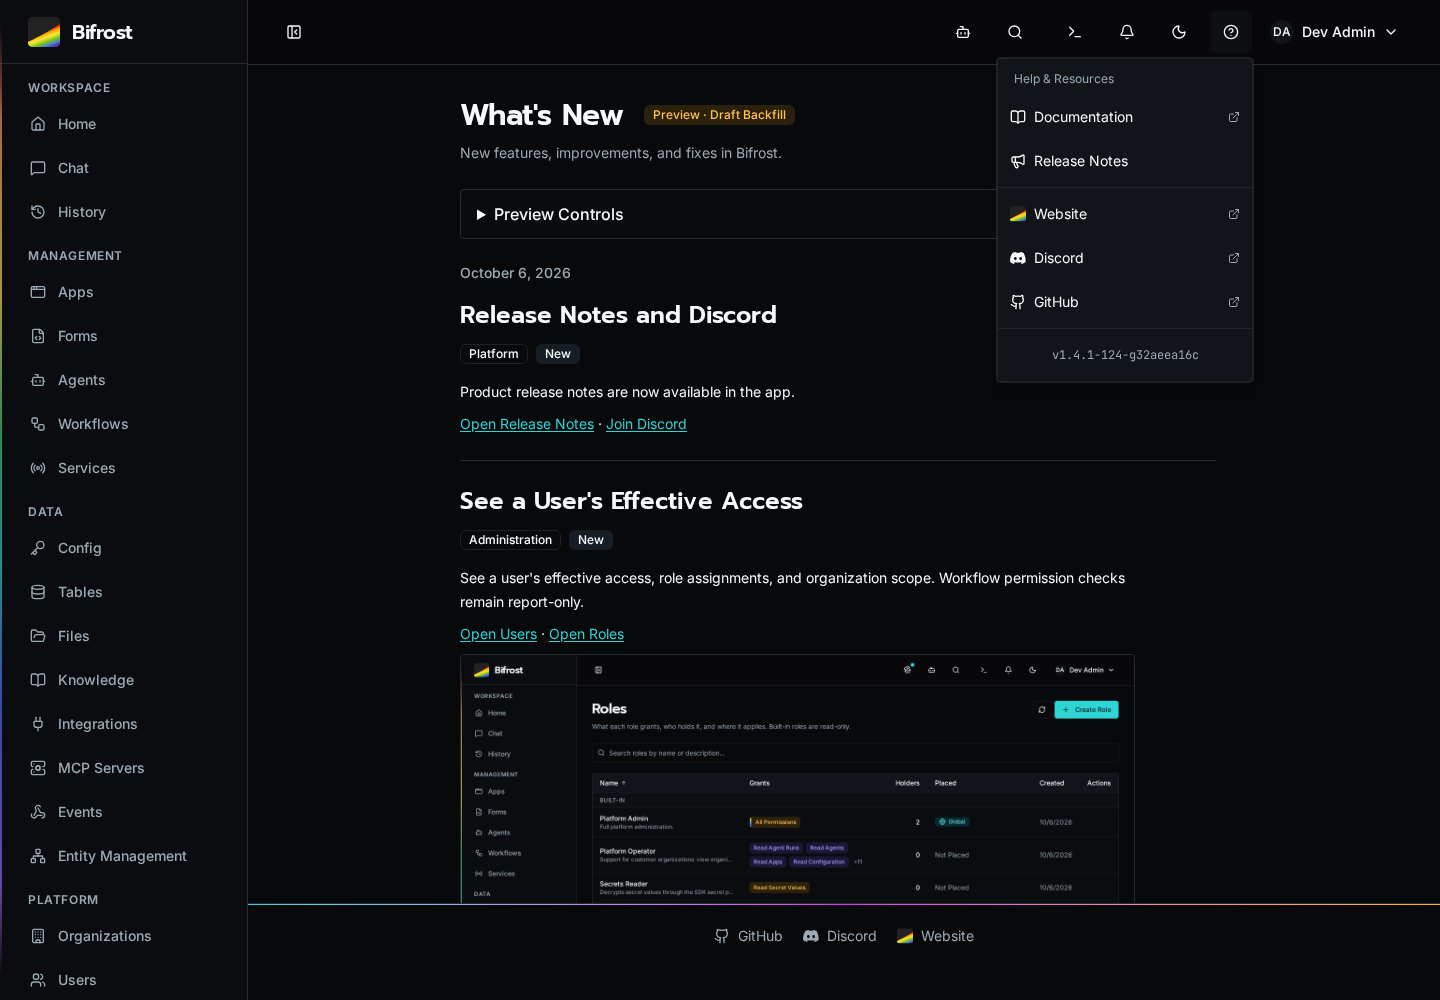
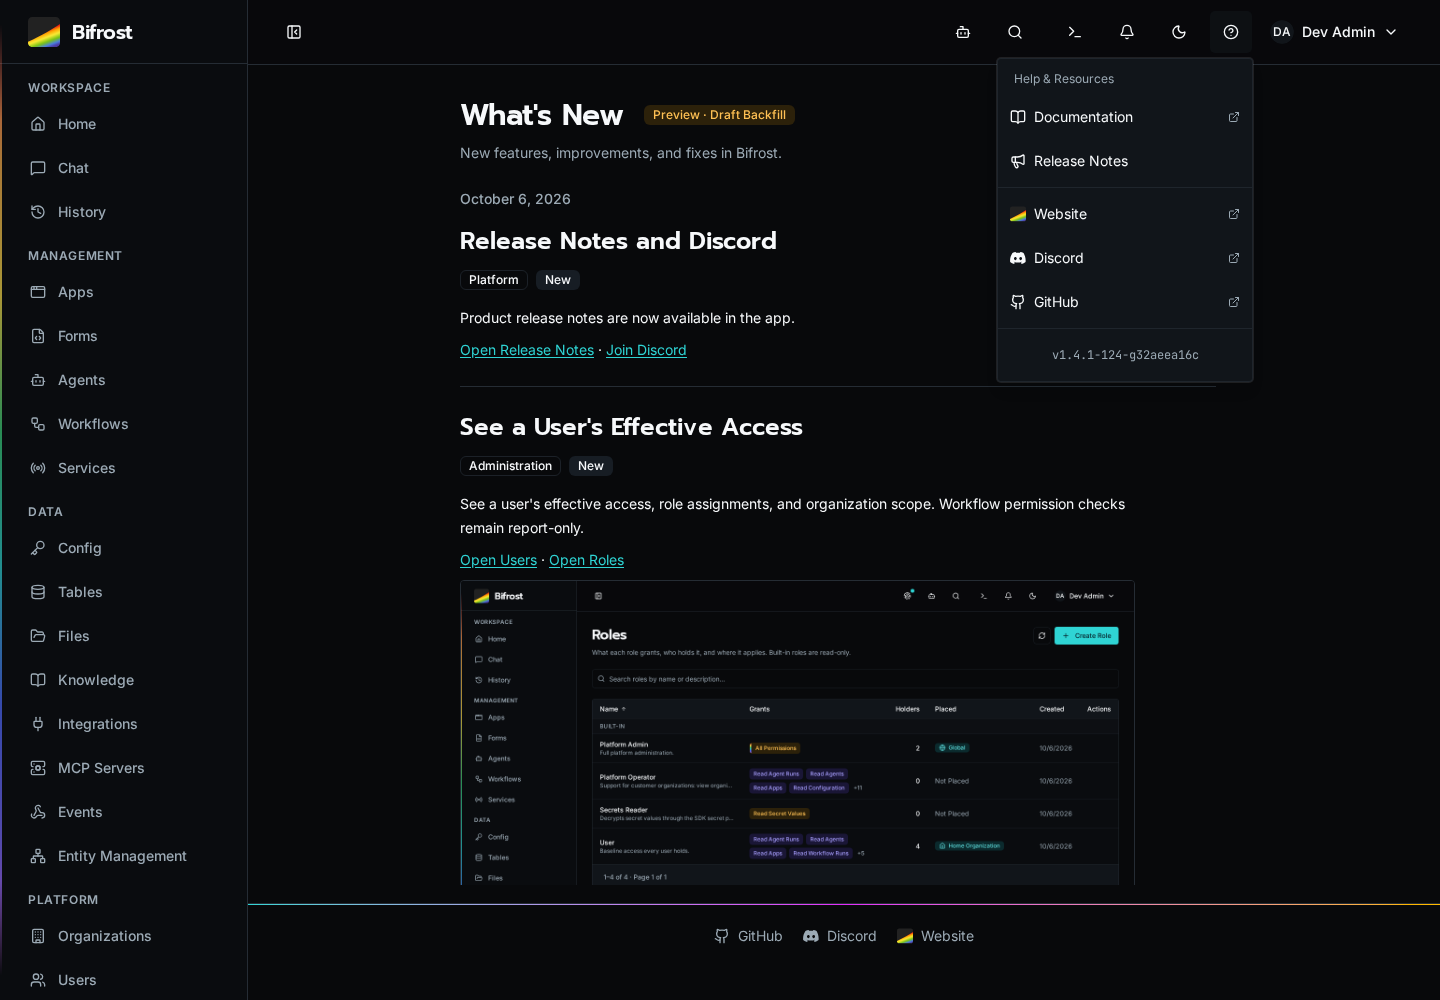
Hide development controls from the release notes review page

diff --git a/client/src/pages/ProductUpdatesPreview.tsx b/client/src/pages/ProductUpdatesPreview.tsx
@@ -40,6 +40,7 @@ export function ProductUpdatesPreview({
 }) {
 	const [searchParams, setSearchParams] = useSearchParams();
 	const { user } = useAuth();
+	const showControls = searchParams.get("controls") === "1";
 	const state = readPreviewState(searchParams.get("state"));
 	const selectedAdmin = searchParams.get("admin") ?? "current";
 	const adminId =
@@ -149,76 +150,88 @@ export function ProductUpdatesPreview({
 					description="New features, improvements, and fixes in Bifrost."
 				/>
 
-				<details className="rounded-[var(--bf-radius-surface)] border bg-muted/20 px-4 py-3">
-					<summary className="cursor-pointer font-medium">
-						Preview Controls
-					</summary>
-					<div className="mt-3">
-						<Alert>
-							<Megaphone aria-hidden="true" />
-							<AlertTitle>Development Fixture</AlertTitle>
-							<AlertDescription className="flex flex-wrap items-center gap-3">
-								<label className="flex items-center gap-2">
-									<span>State</span>
-									<select
-										aria-label="Preview state"
-										className="h-9 rounded-[var(--bf-radius-control)] border bg-background px-2"
-										value={state}
-										onChange={(event) =>
-											change("state", event.target.value)
-										}
-									>
-										{previewStates.map((option) => (
-											<option
-												key={option.value}
-												value={option.value}
-											>
-												{option.label}
+				{showControls && (
+					<details className="rounded-[var(--bf-radius-surface)] border bg-muted/20 px-4 py-3">
+						<summary className="cursor-pointer font-medium">
+							Preview Controls
+						</summary>
+						<div className="mt-3">
+							<Alert>
+								<Megaphone aria-hidden="true" />
+								<AlertTitle>Development Fixture</AlertTitle>
+								<AlertDescription className="flex flex-wrap items-center gap-3">
+									<label className="flex items-center gap-2">
+										<span>State</span>
+										<select
+											aria-label="Preview state"
+											className="h-9 rounded-[var(--bf-radius-control)] border bg-background px-2"
+											value={state}
+											onChange={(event) =>
+												change(
+													"state",
+													event.target.value,
+												)
+											}
+										>
+											{previewStates.map((option) => (
+												<option
+													key={option.value}
+													value={option.value}
+												>
+													{option.label}
+												</option>
+											))}
+										</select>
+									</label>
+									<label className="flex items-center gap-2">
+										<span>Admin</span>
+										<select
+											aria-label="Preview admin"
+											className="h-9 rounded-[var(--bf-radius-control)] border bg-background px-2"
+											value={selectedAdmin}
+											onChange={(event) =>
+												change(
+													"admin",
+													event.target.value,
+												)
+											}
+										>
+											<option value="current">
+												Current Admin
 											</option>
-										))}
-									</select>
-								</label>
-								<label className="flex items-center gap-2">
-									<span>Admin</span>
-									<select
-										aria-label="Preview admin"
-										className="h-9 rounded-[var(--bf-radius-control)] border bg-background px-2"
-										value={selectedAdmin}
-										onChange={(event) =>
-											change("admin", event.target.value)
-										}
-									>
-										<option value="current">
-											Current Admin
-										</option>
-										<option value="admin-b">Admin B</option>
-									</select>
-								</label>
-								<label className="flex items-center gap-2">
-									<span>Bundle</span>
-									<select
-										aria-label="Preview bundle"
-										className="h-9 rounded-[var(--bf-radius-control)] border bg-background px-2"
-										value={channel}
-										onChange={(event) =>
-											change(
-												"channel",
-												event.target.value,
-											)
-										}
-									>
-										<option value="dev">Dev</option>
-										<option value="stable">Stable</option>
-									</select>
-								</label>
-								<span>
-									Receipts use stable entry UUIDs across Dev
-									and Stable.
-								</span>
-							</AlertDescription>
-						</Alert>
-					</div>
-				</details>
+											<option value="admin-b">
+												Admin B
+											</option>
+										</select>
+									</label>
+									<label className="flex items-center gap-2">
+										<span>Bundle</span>
+										<select
+											aria-label="Preview bundle"
+											className="h-9 rounded-[var(--bf-radius-control)] border bg-background px-2"
+											value={channel}
+											onChange={(event) =>
+												change(
+													"channel",
+													event.target.value,
+												)
+											}
+										>
+											<option value="dev">Dev</option>
+											<option value="stable">
+												Stable
+											</option>
+										</select>
+									</label>
+									<span>
+										Receipts use stable entry UUIDs across
+										Dev and Stable.
+									</span>
+								</AlertDescription>
+							</Alert>
+						</div>
+					</details>
+				)}
 
 				{state === "future" && (
 					<Alert>

diff --git a/client/src/pages/ProductUpdatesPreview.test.tsx b/client/src/pages/ProductUpdatesPreview.test.tsx
@@ -51,6 +51,7 @@ describe("ProductUpdatesPreview", () => {
 			initialEntries: ["/?admin=admin-a"],
 		});
 		await screen.findByRole("heading", { name: "Readable Update" });
+		expect(screen.queryByText("Preview Controls")).not.toBeInTheDocument();
 
 		expect(
 			screen.getByText("Preview · Draft Backfill"),
@@ -114,7 +115,7 @@ describe("ProductUpdatesPreview", () => {
 	it("recovers from the failure fixture when switching back to normal", async () => {
 		const { user } = renderWithProviders(
 			<ProductUpdatesPreview adapter={adapter()} />,
-			{ initialEntries: ["/?state=failure"] },
+			{ initialEntries: ["/?state=failure&controls=1"] },
 		);
 
 		expect(

diff --git a/client/e2e/preview/product-updates.admin.spec.ts b/client/e2e/preview/product-updates.admin.spec.ts
@@ -77,6 +77,7 @@ test("admin sees new updates automatically and reopens history from Help", async
 		history.getByRole("heading", { name: "Release Notes and Discord" }),
 	).toBeVisible();
 	await expect(history.getByRole("heading", { name: "October 6, 2026", exact: true })).toHaveCount(1);
+	await expect(history.getByText("Preview Controls", { exact: true })).toHaveCount(0);
 	await expect(history.getByRole("tab")).toHaveCount(0);
 	await expect(
 		history.getByRole("button", { name: /Mark.*Read/ }),

diff --git a/docs/plans/product-updates-progress.md b/docs/plans/product-updates-progress.md
@@ -156,3 +156,11 @@ Modal and history now use shared UpdateGroups rendering: one date heading per lo
 Verification: focused component tests passed (3 files / 13 tests) using `docker exec -w /app bifrost-debug-3fc9b38f-client-1 npm test -- src/components/layout/ProductUpdateContent.test.tsx src/components/layout/ProductUpdatesDialog.test.tsx src/pages/ProductUpdatesPreview.test.tsx`; shared grouping coverage exercises multiple dates and same-day membership. `./test.sh client preview` passed in 9.9 seconds, asserting one date heading in modal and history plus the existing mobile bounds and receipt/new-tab flow. Screenshots refreshed and desktop/mobile modal inspected. `docker exec -w /app bifrost-debug-3fc9b38f-client-1 npx tsc -b --pretty false` passed. Scoped ESLint passed for ProductUpdateContent, its test, ProductUpdatesDialog and ProductUpdatesPreview in the debug client, and the actual browser spec through the whole-client Playwright image mount. Full suites were not run; no backend or API contracts changed.
 
 The first browser date-count assertion also counted Radix's dialog title, which is an h2. It now counts the exact date heading, preserving the single-date contract without assuming the dialog title's heading level. No retries or timeout changes were added.
+
+## Clean Review URL
+
+Preview Controls is omitted from normal `/whats-new` rendering; development fixture controls require `?controls=1`. The opt-in URL retains error-state recovery, admin and channel selection. Notes and draft status remain visible without a controls panel. History/Help desktop/mobile screenshots were refreshed and the mobile history inspected.
+
+Focused checks: `docker exec -w /app bifrost-debug-3fc9b38f-client-1 npm test -- src/pages/ProductUpdatesPreview.test.tsx` passed all 5 tests, including default controls absence and opt-in fixture recovery. `./test.sh client preview` passed in 10.8 seconds, asserting controls absence on the normal history path. `docker exec -w /app bifrost-debug-3fc9b38f-client-1 npx eslint src/pages/ProductUpdatesPreview.tsx src/pages/ProductUpdatesPreview.test.tsx` passed, as did the actual browser spec ESLint via the mounted whole-client Playwright image. Broader suites and backend checks were not run for this UI-only change.
+
+`docker exec -w /app bifrost-debug-3fc9b38f-client-1 npx tsc -b --pretty false` also passed.

diff --git a/docs/plans/product-updates-claude-handoff.md b/docs/plans/product-updates-claude-handoff.md
@@ -27,3 +27,5 @@ Inspect the actual rendered desktop/mobile flow before calling the design accept
 The 17 draft notes now use short titles, one or two sentences, verified app links and screenshots where available. Authoring requires a General Writing/Humanizer pass; validation caps titles at 10 words and bodies at 60 words, or 100 for security/action-required notes. These limits constrain length; a human review still checks clarity and accuracy. Relative app links render as plain in-Bifrost instructions in GitHub release bodies.
 
 The release skill separates adding/preparing release data from publication. Prepare and review notes during their PR, aggregate approved entries since the previous final, then freeze the body for publication. Production announcements should trigger on unseen approved UUIDs in the installed build at admin shell entry. Editorial revisions and promotion from dev to stable preserve receipts. The current DEV mock uses local receipts; durable production receipts remain unimplemented.
+
+Preview Controls is hidden on the normal review URL. Opt in with `/whats-new?controls=1` to use development fixture controls. The plain `/whats-new` route is the customer-style review surface.
